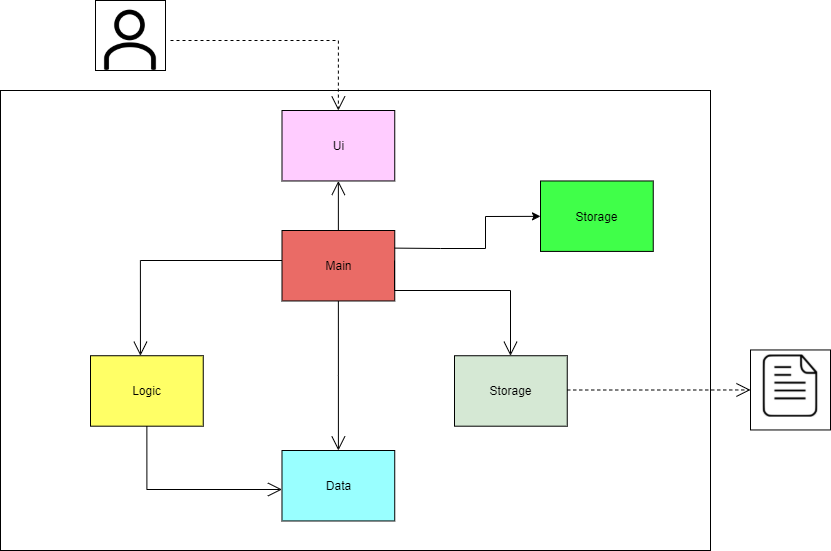
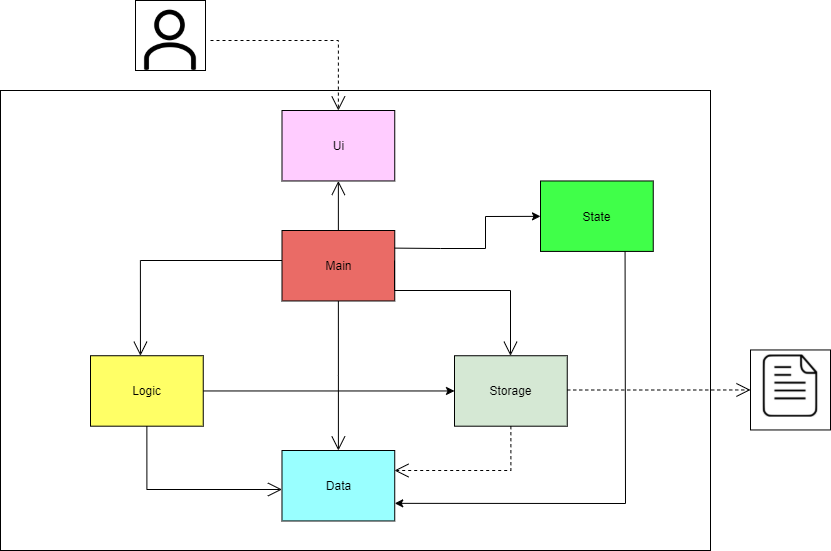
update architecture diagram, add description for State component add Data Component section in DG update ItemBankAndItemClassDiagram

diff --git a/docs/DeveloperGuide.md b/docs/DeveloperGuide.md
@@ -13,10 +13,11 @@ of Fitbot and some design considerations.
 
 [Design](#design)
 - [Architecture](#architecture)
-- [Data Component (Profile)](#data-component-profile)
-- [Data Component (ItemBank and Item)](#data-component-itembank-and-item)
-  - [ItemBank](#itembank-class)
-  - [Item](#item-class)
+- [Data Component](#data-component)
+  - [Data Component (Profile)](#data-component-profile)
+  - [Data Component (ItemBank and Item)](#data-component-item)
+    - [ItemBank Class Hierarchy](#itembank-class-hierarchy)
+    - [Item Class Hierarchy](#item-class-hierarchy)
 - [Logic Component](#logic-component)
 - [Storage Component](#storage-component)
 - [Implementation](#implementation)
@@ -60,12 +61,12 @@ of Fitbot and some design considerations.
 
 `Main` class is the component that interacts with all the necessary classes.
 The `Main` class consists of the few components as shown below:
-- `Ui`: The interaction between user and application
-- `Logic`: Parse commands and execute them respectively
-- `Data`: allow users to perform CRUD operations on the data in the application
-- `Storage`: stores all data in the application. Saves a copy of data in relevant files.
+- `Ui`: Facilitates interaction between user and application
+- `Logic`: Parses commands and execute them respectively
+- `Data`: Allows users to perform CRUD operations on the data in the application
+- `Storage`: Stores all data in the application. Saves a copy of data in relevant files.
   Data will be retrieved from storage upon starting of application.
-- `State`: 
+- `State`: Helps the user to restore or create profile data. 
 
 Upon launching of application:
 - The application will check if there are files that are already stored in the respective folder.
@@ -113,10 +114,24 @@ based on the command the parser detects.
 - when all the operations above are completed, the Main class will pass a message to Ui class.
 - Ui class wll then format the message and print it to console for the user.
 
-### Data Component (Profile)
+### Data Component
 
 <p align="center" width="100%">
-  <img width="90%" src="images/ProfileClassDiagram.png" alt="Architecture Sequence Diagram"/>
+  <img width="100%" src="images/DataComponent.png" alt="Data Component Diagram"/>
+</p>
+
+The `Data` component is responsible to perform operations such as data modification and query in the code.
+
+In `Data` component, it consists of:
+1. `DataManager` class which is responsible to help interaction between classes in `Logic` Component and classes in `Data` Component.
+2. `Profile` package which is responsible to any manipulation and modification of data for `Profile`.
+3. `Item` package which is responsible to any manipulation and modification of data for `Item` such as `Food` and `Exercise`.
+4. `Verifiable` interface which is responsible to check data validity in storage files.
+
+#### Data Component (Profile)
+
+<p align="center" width="100%">
+  <img width="90%" src="images/ProfileClassDiagram.png" alt="Profile Diagram"/>
 </p>
 
 A `Profile` class has various attributes such as `Name`, `Height`, `Weight`, `Gender`, `Age`, `CalorieGoal` and `ActivityFactor`
@@ -126,19 +141,18 @@ A `Profile` class has various attributes such as `Name`, `Height`, `Weight`, `Ge
 - All the attributes implement a `Verifiable` interface to enable us to check if the attributes are valid. This is important for the setting up of profile or the loading of profile from storage to ensure data integrity of the user's attributes.
 
 
-### Data Component (ItemBank and Item)
+#### Data Component (Item)
 
 <p align="center" width="100%">
   <img width="90%" src="images/ItemBankAndItemClassDiagram.png" alt="ItemBank And Item Class Diagram"/>
 </p>
 
-The `Data` component is responsible to perform operations such as data modification and query in the code.
-
-Above is a high-level **_class diagram_** for the `ItemBank` and `Item` classes in `Data` component. 
+Above is a high-level class diagram for all the classes in `Item` package. In `Item` package, it has 
+two different class hierarchy, one is `ItemBank`, and one is `Item`.
 
 The main purpose of having `ItemBank` and `Item` classes is to allow user to perform writing, reading, editing and deleting operations in the program.
 
-#### ItemBank class
+##### ItemBank Class Hierarchy
 1. `ItemBank` is the *highest superclass* that contains one attribute called `internalItems` which is an _array list_ of `Item`.
 2. `ItemList` being the *subclass* of `ItemBank` and *superclass* of `FoodList` and `ExerciseList`, which inherits all the methods available from `ItemBank`, with additional methods that form a dependency on `Item` class.
 3. `FoodList` and `ExerciseList` are *subclasses*  that inherit all the methods available from `ItemList`, while each of them also contains more methods that form a dependency
@@ -146,14 +160,22 @@ on `Food` class and `Exercise` class respectively.
 4. `FutureExerciseList` is a *subclass*  that inherit all the methods available from `ExerciseList` and contains other methods that form a dependency
 on `Exercise` class.
 
-#### Item class
+As shown in the diagram above, `DataManager` class has association with `ItemBank`. This implies that it also has association with
+all the subclasses that inherits `ItemBank`. 
+
+##### Item Class Hierarchy
 1. An `Item` class contains two attributes, `name` which represents the name of the item, and `calories` which represents the calorie intake/burnt from the item.
 2. `Food` and `Exercise` are the only two **_subclasses_** inherit the `Item` class. 
 3. `Food` class has two extra attributes called `dateTime` and `timePeriod`, the former stores the consumed food date and time, while the latter compute the time period 
-(only value such as `MORNING`, `AFTERNOON`, `EVENING`** and **`NIGHT`** as shown in the enumeration class `TimePeriod`) of the food consumed time. Note that the `timePeriod` 
+(only value such as `MORNING`, `AFTERNOON`, `EVENING` and `NIGHT` as shown in the enumeration class `TimePeriod`) of the food consumed time. Note that the `timePeriod` 
 value must present when a `Food` object is created.
 4. `Exercise` class has one extra attribute called `date` which stores the date of the exercise taken.
-5. Abstract classes of Items and ItemLists acts as an agent for meaningful subclasses of Food and Exercise to inherit its attributes and functionality for a more concise use-case.
+
+As shown in the diagram above, the `Item` class implements interface `Verifiable`. This interface contains method to check the validity for the items 
+in the storage files. If the data in storage file is invalid, that item will not be loaded to the program. Note that since the superclass 
+`Item` implements `Verifiable`, its subclasses `Food` and `Exercise` also implement the interface.
+
+Abstract classes of Items and ItemLists acts as an agent for meaningful subclasses of Food and Exercise to inherit its attributes and functionality for a more concise use-case.
 
 ### Ui Component
 
@@ -270,7 +292,9 @@ This particular case illustrates how a user input add f/potato c/20 is parsed an
 
 #### Add a Food Item Feature
 
-![Add Food Item Sequence Diagram](images/AddFoodItemSequenceDiagram.png)
+<p align="center" width="100%">
+  <img width="90%" src="images/AddFoodItemSequenceDiagram.png" alt="Add Food Item Sequence Diagram"/>
+</p>
 
 The purpose of this feature is to allow the user to add food item to the food list. The above diagram shown is the 
 sequence diagram of the process of adding the food item. 
